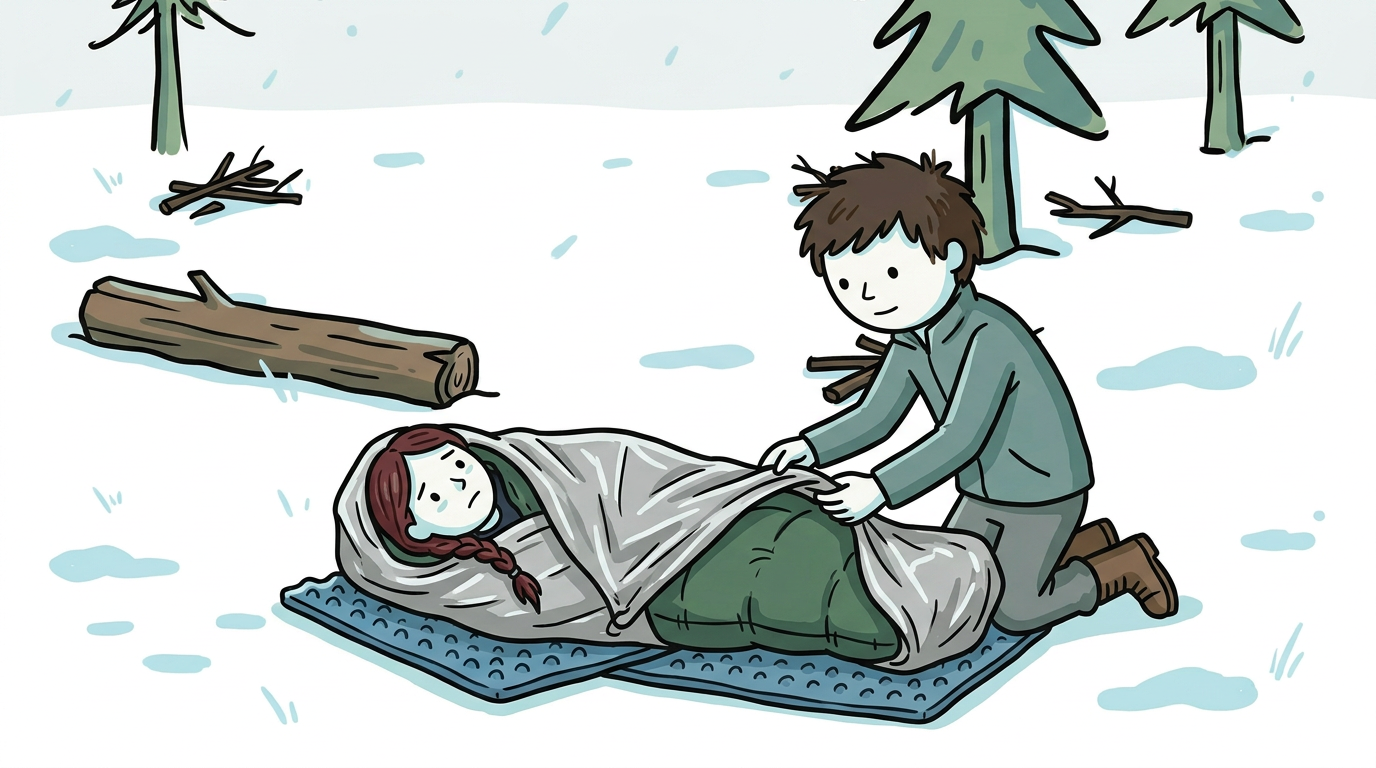
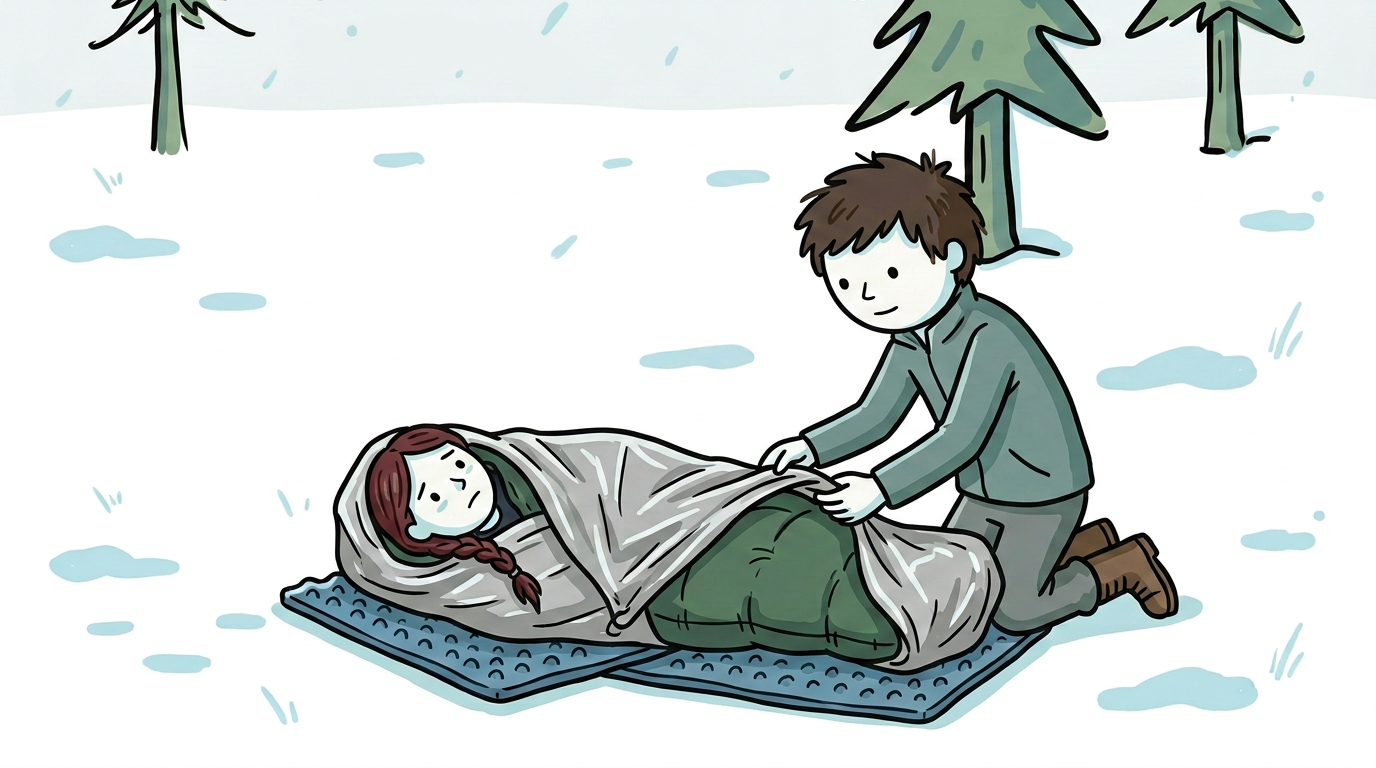
Audit shelter continuity and start fire decision frames

diff --git a/examples/save_the_guide_part_01_video/FRAME_REVIEW.md b/examples/save_the_guide_part_01_video/FRAME_REVIEW.md
@@ -1,59 +1,63 @@
 # Save the Guide — Part 1 Frame Review
 
-Frames are retained only after visual inspection. User section approval is explicit through review/continue approval, and rejected candidates never count toward the 146 final frames. User-reported errors reopen the affected frame even if its section was previously approved.
+Frames are retained only after visual inspection. User approval is explicit through review/continue approval. Rejected candidates never count toward the 146 final frames, and a corrected replacement awaits review even when it replaces a previously approved image.
 
 ## Approved frames
 
-- **Batch 1 — opening hook:** 10/10 approved.
-- **Batch 2 — training flashback:** 11/11 approved.
-- **Batch 3 — character and safety setup:** 11/11 approved.
-- **Batch 4 — progress and initial river crossing:** 10/10 approved.
-- **Batch 5 — concealed weak ice and the accident:** 10/10 approved.
-- **Batch 6 — cold shock and first rescue attempt:** 11/11 approved.
-- **Batch 7 — coordinated extraction:** 11/11 approved after the user-requested m10 glove correction.
-- **Batch 8 — extraction to injury discovery:** 11/11 approved after user-requested glove and anatomy corrections.
-- **Batch 9 first-pass subset:** `m01`, `m03`, `m04`, and `m09` approved through the user's continuation.
+- **Batches 1–8:** 85/85 approved, including all earlier user-requested corrections.
+- **Batch 9 approved subset:** `m01`, `m03`, and `m04` = 3 frames.
 
-**Total approved frames: 89/146.**
+**Total approved frames: 88/146.** The previously approved `beat09m09` was reopened during the user's shelter-consistency audit and its replacement now awaits re-review.
 
-## Batch 9 — supply doubts and shelter rewarming: COMPLETE 12/12
+## Shelter continuity audit
 
-`review/part01_batch09_review.jpg` contains the complete twelve-frame section. The following **eight frames await user review**:
+The user was right that wooden handmade frames appeared in some intermediate images. Those candidates were rejected and are not in the retained sequence. The current Batch 9 sheet contains **no tent, lean-to or wooden A-frame**. The silver plastic-like material is the intentional emergency bivy: loose when assessed, then wrapped outside the green sleeping bag.
 
-- `beat09m02` — exactly one sleeping bag in Evan's hands; Mara remains wet, gloved and booted on the blue pad.
-- `beat09m05` — sleeping bag, sweater and bivy are separate; Mara remains on the single pad with both boots.
-- `beat09m06` — Evan's burdened reaction with Mara's dark gloves restored.
-- `beat09m07` — Mara directs the restart in the snowy spruce stand with exactly two coherent legs and two brown boots.
-- `beat09m08` — Evan is muted teal, Mara is dry-dark-layered and covered, and the wet orange shell is separate.
-- `beat09m10` — native-size, borderless covered removal of the wet charcoal trousers with no nudity.
-- `beat09m11` — connected full-body phone check, no unapproved structure or firewood, and Mara's hand covered.
-- `beat09m12` — **user-flagged candidate replaced.** The new waist-up composition gives Evan a complete connected head, shoulders, torso and arms. The small phone's back faces the viewer and its screen faces Evan. Mara remains on the blue pad with green sleeping bag and visible silver bivy; there is no wooden frame or detached/giant foreground hand.
+The audit found one retained mismatch: `beat09m09` contained a natural log and stick debris that disappeared later. The replacement removes that debris while preserving Mara, Evan, the blue pad, green sleeping bag and silver bivy. Batch 10 may introduce only the scripted fire materials; its fire base is a **small, low, flat stick platform**, not a sleeping-shelter frame.
 
-Earlier Batch 9 candidates rejected for a duplicate sleeping bag, bare foot/displaced pad, bare Mara hands, exposed dirt, Evan's orange wardrobe, a bordered/wrong-resolution canvas, unapproved shelter structures, missing silver bivy and the user-flagged phone/body anatomy were quarantined rather than counted.
+## Batch 9 — supply doubts and shelter rewarming: COMPLETE 12/12 RETAINED
 
-## Production counter after Batch 9 completion
+Nine frames await user review: `m02`, `m05`, `m06`, `m07`, `m08`, cleaned `m09`, `m10`, `m11`, and replacement `m12`. The `m12` replacement specifically resolves the user-flagged detached-body/phone-orientation problem with a connected waist-up Evan and the phone back toward the viewer.
 
-- Approved frames: **89**
-- Batch 9 frames awaiting user review: **8**
-- **Total retained: 97/146**
-- **Final frames remaining: 49**
-- Pending Batch 9 corrections: **0**
+## Batch 10 — fire-first decision and confusion: FIRST PASS
 
-Batch 9 is complete at **12/12 retained frames**. The next section is Batch 10, the fire-first decision and Mara's confusion, with **11 planned moments**. Its ten-frame first pass plus one-frame completion would bring the total to **108/146**, leaving **38**, if all pass.
+Four frames passed inspection and are shown in `review/part01_batch10_review.jpg`:
+
+- `beat10m02` — the long deep-snow trail into dusk.
+- `beat10m04` — Mara lucidly directing “fire first,” with no fire or wooden construction yet.
+- `beat10m07` — the correct small, low, flat parallel-stick fire base.
+- `beat10m08` — tiny sparks dying above tinder with no established flame.
+
+### Rejected candidates and pending work
+
+- `beat10m01` — Mara's resting hand is bare; cover it completely with bedding.
+- `beat10m03` — the action hand correctly wears a dark glove, but Mara's second hand is bare; only one dark-gloved action hand may be visible.
+- `beat10m05` — Mara's background hand is bare; cover it while preserving the branch gathering and pack placement.
+- `beat10m06` — the large-fuel pile became sawn logs with round cut ends. Use thicker natural dead branches with irregular snapped ends, exactly three piles.
+- `beat10m09` — an extra cylindrical cup/container appeared beside the failed smoking bundle; remove it and preserve the no-flame state.
+- `beat10m10` and `beat10m11` — not yet generated; these complete Mara's wrong-name confusion beat with no additional person.
+
+## Production counter
+
+- Approved frames: **88**
+- Batch 9 frames awaiting review/re-review: **9**
+- Batch 10 first-pass frames awaiting review: **4**
+- **Total retained: 101/146**
+- **Final frames remaining: 45**
+- Pending Batch 10 work: **5 corrections + 2 completion frames = 7**
+
+If all seven next-round frames pass, Batch 10 will be complete at 11/11 and the overall count will be **108/146 retained**, leaving **38**.
 
 ## Standing continuity and QA rules
 
-- Evan's hands remain pale and ungloved. Check hand ownership by sleeve: teal-sleeved hands are pale; orange-sleeved Mara hands are dark-gloved or covered.
-- Evan's jacket, sleeves and cuffs remain muted teal and his trousers grey. Mara's shell remains rust-orange, never mustard, and her trousers remain charcoal with brown boots until their deliberate removal.
-- Mara has exactly one auburn braid. Full-body poses require exactly two coherent legs and two boots with correct orientation; no extra limbs, missing footwear or duplicated hair.
-- Phone shots require a natural grip, a connected body and an unambiguous orientation. When the phone back faces the viewer, the screen must face Evan and remain unseen. Avoid extreme forced perspective that detaches hands from the torso.
-- Targeted edits must be re-inspected for collateral changes to hair, clothing colour, props, anatomy and location.
-- Before rewarming, Mara remains on the blue pad in wet outer clothing with both boots and dark gloves. Do not move the pad or remove clothing early.
-- The green sleeping bag exists as one Evan-owned prop: it may be held by Evan or wrapped around Mara, never both at once.
-- Upper wet shell removal and dry insulation occur before the bivy is added. Lower wet-layer removal happens under cover with no nudity and the right knee still.
-- After shelter wrapping, Mara remains on the blue pad in the green sleeping bag with the silver bivy visibly outside and her hands covered.
-- The established shelter is an open snowy spruce stand. Do not add deciduous trees, wooden A-frames, poles, logs, firewood or fire until the script deliberately introduces them.
-- Snow remains continuous; no exposed dirt, mud, grass or seasonal change.
-- Every final frame must be native 1376×768, full-bleed, with no black border, comic frame, captions or polished-panel treatment.
+- Evan's hands are pale and ungloved; his jacket, sleeves and cuffs remain muted teal, trousers grey.
+- Mara has one auburn braid and dark gloves whenever a pre-shelter hand is visible. After wrapping, her hands stay under the bedding; an action may reveal exactly one dark-gloved hand while the other remains covered. Use C04 for pose/bedding, not for a bare resting hand.
+- Full-body poses require coherent connected anatomy, exactly two legs and appropriate footwear; no floating hands, extra limbs or missing torso.
+- Phone shots require natural grip and unambiguous screen/back orientation without extreme forced perspective.
+- Mara remains on the single blue pad in the green sleeping bag with the silver bivy visibly outside after wrapping. No duplicate bedding or premature clothing-state changes.
+- The sleeping shelter is only open spruce cover plus pad/bag/bivy. No tent, lean-to, wooden A-frame, poles or handmade sleeping-shelter frame.
+- Keep loose logs and branch debris out of the immediate pre-fire continuity background. Once the script introduces firewood, use natural dead branches with irregular snapped ends, never sawn logs or milled lumber.
+- The fire base is low, flat and horizontal. First sparks die without flame; the second bundle smokes and collapses without open flame. No extra cup, first-aid book or unrelated fire-kit props.
+- Every final frame must be native 1376×768, full-bleed, with no captions, border or polished-panel treatment.
 
 No narration, timing file or stitched video has been produced yet.

diff --git a/examples/save_the_guide_part_01_video/STATUS.md b/examples/save_the_guide_part_01_video/STATUS.md
@@ -2,7 +2,7 @@
 
 ## Current stage
 
-**Research, series planning, full Part 1 narration, and the complete reference pack are approved and locked. The full 146-moment visual plan is validated. Batch 9 is now complete at 12/12 frames. The user-flagged countdown image has been replaced with a connected waist-up Evan, natural phone orientation and correct shelter bedding. Eight Batch 9 frames await user review.**
+**The shelter audit is complete. Rejected intermediate drafts did contain handmade wooden frames, but the retained Batch 9 sequence contains no tent or A-frame. The silver layer is the intentional emergency bivy. A real background-debris mismatch in `beat09m09` was corrected and that frame awaits re-review. Batch 10 has begun: four first-pass frames retained, five corrections and two completion frames pending.**
 
 ## Production counter
 
@@ -10,27 +10,26 @@
 |---|---:|
 | Planned final narrative frames | **146** |
 | Approved Batches 1–8 | **85** |
-| Approved Batch 9 first-pass subset | **4** |
-| **Total approved** | **89** |
-| Batch 9 frames awaiting user review | **8** |
-| **Total retained on disk** | **97** |
-| Batch 9 corrections pending | **0** |
-| **Final frames remaining** | **49** |
+| Approved Batch 9 subset (`m01`, `m03`, `m04`) | **3** |
+| **Total approved** | **88** |
+| Batch 9 awaiting review/re-review | **9** |
+| Batch 10 first-pass awaiting review | **4** |
+| **Total retained on disk** | **101** |
+| Batch 10 corrections pending | **5** |
+| Batch 10 completion frames not yet generated | **2** |
+| **Final frames remaining** | **45** |
 
-Batch numbering tracks planned production batches; correction and section-completion generations are additional rounds and do not increase the final 146-frame requirement.
+The approved count moved from 89 to 88 because the user's continuity audit reopened `beat09m09`; its cleaned replacement has not yet been user-reviewed.
 
 ## Completed
 
-- `script.md` — complete Part 1 narration: 14 paragraphs and 1,009 words.
-- `SERIES_BIBLE.md` — premise, characters, themes, equipment logic, three-part arc, setup/payoff ledger and continuity rules.
-- `RESEARCH.md` — sourced survival guidance and exact story applications.
-- `references/save_the_guide/` — complete approved reference pack plus modular prompt and continuity rules.
-- `visuals.csv` — **146 short narration moments** across 14 paragraphs; every paragraph is reproduced verbatim by its ordered `moment_text` values. Validation passes after the latest prompt corrections.
-- `beats.jsonl` — 14 narration beats converted from the validated visual plan.
-- `FRAME_REVIEW.md` — approvals, reopened frames, visual QA, corrections, counters and standing continuity/anatomy rules.
+- Research, series bible, full 14-paragraph/1,009-word Part 1 script, approved locked reference pack and validated 146-moment visual plan.
+- `beats.jsonl` — 14 narration beats derived from the plan.
 - **Batches 1–8:** 85 frames approved.
-- **Batch 9:** complete at **12/12 retained frames**; four approved and eight awaiting review. The user-flagged `m12` phone/body anatomy was replaced and inspected.
-- All **97 retained frames** validated at native **1376×768**.
+- **Batch 9:** complete at **12/12 retained frames**; three approved and nine awaiting review/re-review. No retained tent or handmade sleeping-shelter frame.
+- **Batch 10:** `m02`, `m04`, `m07`, and `m08` retained. Corrections pending for `m01`, `m03`, `m05`, `m06`, and `m09`; `m10` and `m11` not yet generated.
+- `PROMPT_BIBLE.md` updated to prohibit shelter-frame drift, pre-fire debris popping, C04 bare-hand leakage and non-flat fire construction.
+- All **101 retained frames** validated at native **1376×768**; narration text still validates verbatim across all 146 moments.
 
 ## Runtime policy
 
@@ -38,10 +37,10 @@ There is **no fixed runtime cap**. Actual narration timing will determine the fi
 
 ## Next production steps
 
-1. Obtain user review of the complete Batch 9 sheet, especially the replacement `m12` countdown frame.
-2. Produce Batch 10, the fire-first decision and Mara's confusion: **11 moments**, using a ten-frame first pass and one-frame completion round.
-3. If all Batch 10 frames pass, the overall count will be **108/146 retained**, leaving **38**.
-4. Continue remaining frames in controlled batches of at most ten per generation round with visual inspection, user review and checkpoint pushes.
+1. Review the cleaned Batch 9 sheet and four retained Batch 10 frames.
+2. Run a seven-frame Batch 10 completion round: correct `m01`, `m03`, `m05`, `m06`, and `m09`; generate `m10` and `m11`.
+3. If all seven pass, Batch 10 will be complete at 11/11 and the count will be **108/146 retained**, leaving **38**.
+4. Continue in controlled batches of at most ten per generation round with inspection, user review and checkpoint pushes.
 5. Produce one-take `en-US-AndrewNeural` narration at `-5%`, require complete WordBoundary moment locking, and stitch native-resolution frames with hard cuts only.
 
 No narration or stitched video has been produced yet.

diff --git a/references/save_the_guide/PROMPT_BIBLE.md b/references/save_the_guide/PROMPT_BIBLE.md
@@ -38,7 +38,7 @@ The primary visual anchor is `references/art_style_v1.png`.
 
 - **Training and crossing:** Dry base outfit; braid intact; orange shell worn normally.
 - **After immersion:** Same face and outfit, but soaked; hair partly loosened by water; violent shivering; no blood or graphic injury.
-- **Shelter:** Wet outer layers removed. She wears dry dark base layers and is wrapped in Evan's dark-green sleeping bag, with the blue foam pad beneath and silver bivy outside. Her right knee remains still and cannot bear weight.
+- **Shelter:** Wet outer layers removed. She wears dry dark base layers and is wrapped in Evan's dark-green sleeping bag, with the blue foam pad beneath and silver bivy outside. Her right knee remains still and cannot bear weight. Keep her hands completely covered by the bedding; when an action requires a visible hand, show exactly one dark-gloved hand and keep the other covered. Use C04 for pose and bedding identity, not for a pale resting-hand state.
 - **Part 2:** Same sheltered outfit and bedding. Her expression changes gradually with her condition; do not change her clothes to indicate improvement.
 - **Part 3 and rescue:** She remains injured and sheltered. She does not stand or walk. Her orange jacket is no longer being worn because Evan uses it as a signal marker.
 
@@ -68,7 +68,7 @@ The primary visual anchor is `references/art_style_v1.png`.
 
 ### Spruce shelter — `L03_spruce_shelter_day.png`
 
-> A sheltered spruce stand a short assisted walk from the river's near bank. Fixed tree trunks and open space for the sleeping pad, bivy, and an outdoor fire platform. Dead branches are available beneath the trees. The ground remains covered in white snow with pale-cyan shadows; no exposed dirt, mud, grass, or seasonal change. The site feels protected but not warm or comfortable.
+> A sheltered spruce stand a short assisted walk from the river's near bank. Fixed tree trunks and open space for the sleeping pad, bivy, and an outdoor fire platform. Dead branches are available beneath the trees. The ground remains covered in white snow with pale-cyan shadows; no exposed dirt, mud, grass, or seasonal change. The site feels protected but not warm or comfortable. Never turn this location into a tent, lean-to, wooden A-frame, or constructed sleeping shelter. Before the script deliberately gathers firewood, keep loose logs and branch piles out of the immediate continuity background. The later fire base is only a small, low, flat platform of parallel natural sticks, never a shelter frame.
 
 ### Night shelter — `L04_spruce_shelter_night.png`
 
